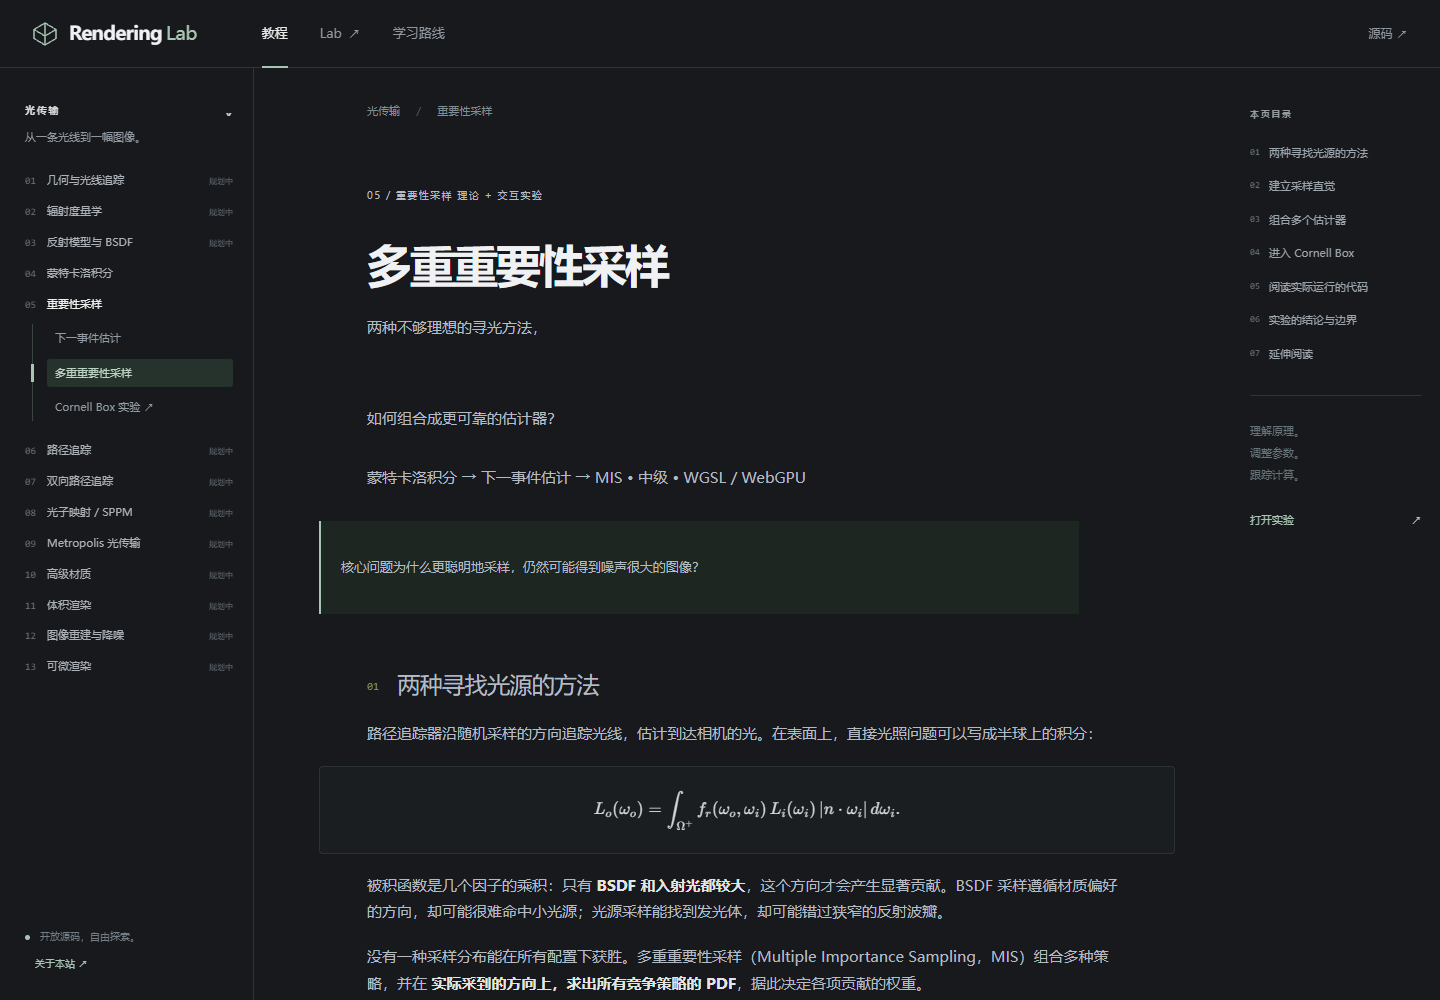
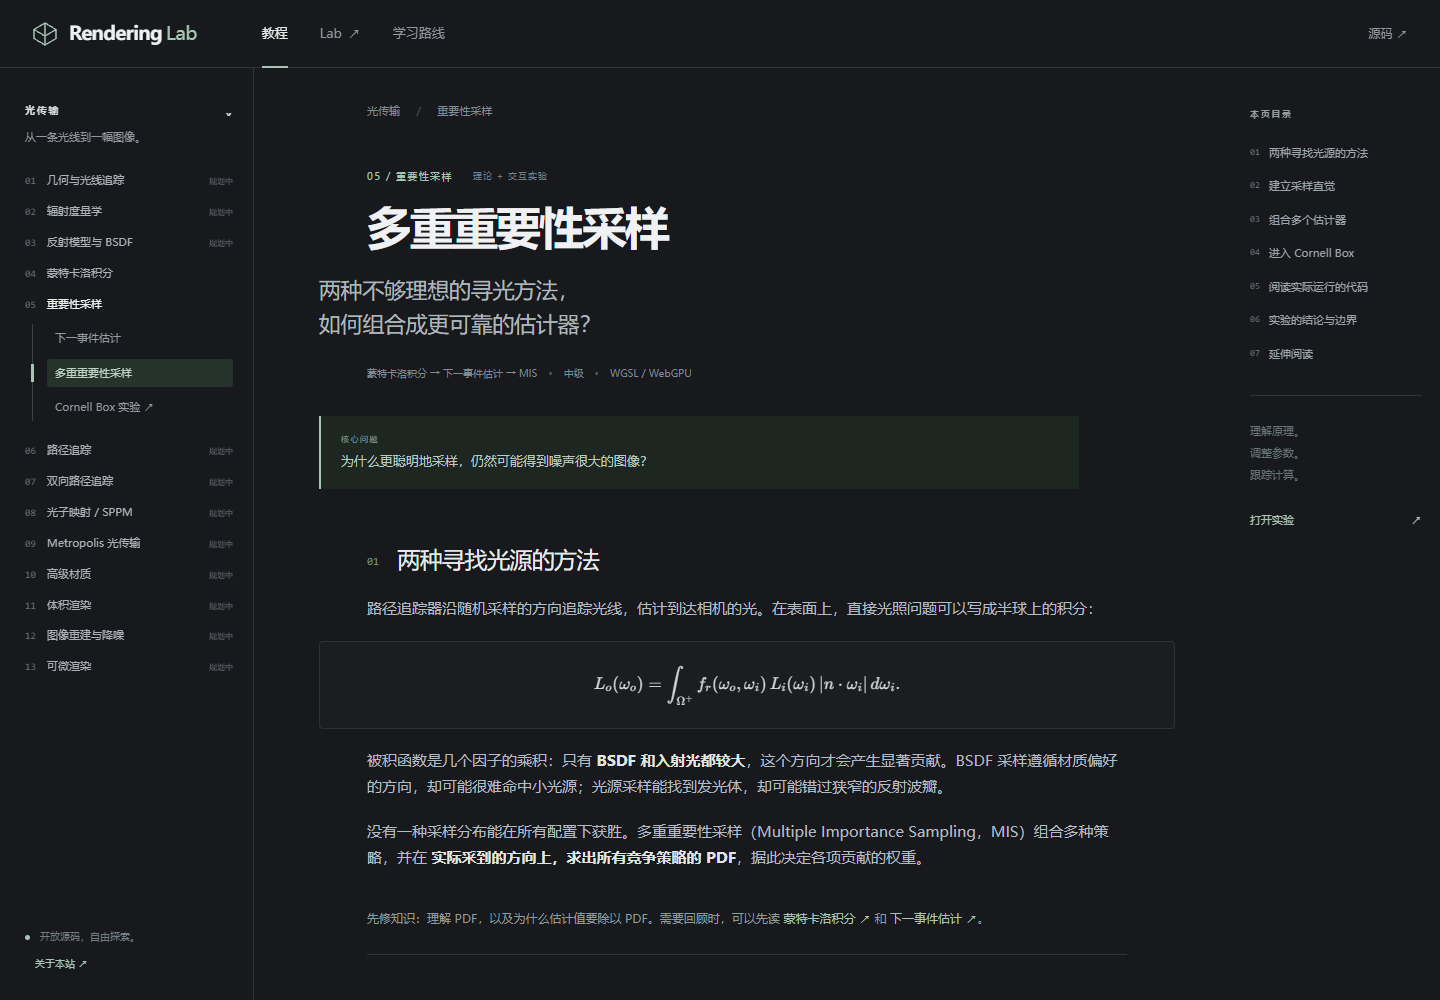
fix: preserve valid MDX paragraph markup in Chinese lessons

diff --git a/docs/validation.md b/docs/validation.md
@@ -56,3 +56,4 @@ GPU自检：6条CPU/GPU求交对比、28681项BSDF检查、9项解析检查，di
 三篇课程正文、学习路线、阅读导航、目录和二维实验说明改为中文；数学公式与技术标识符保留。网站源码采用 Prettier（90列、2空格缩进），可运行 `npm run format` / `npm run format:check`。教学 WGSL 的 power、hit_weight 和 NEE 贡献计算在共享 runtime 中直接展开，不维护另一份展示代码；片段提取统一去除公共缩进，代码字号改为13px。
 
 本地 typecheck、format:check、生产构建、数学测试3/3、浏览器测试3/3通过。格式调整后旧基线图像最大误差仍为0，捕获样本RGB仍与film相等。
+MDX 的原生 HTML 说明块保留行内短语结构，并排除通用自动格式化，避免生成嵌套 p 标签；浏览器确认 lead 为22px且段落子节点数为0。
